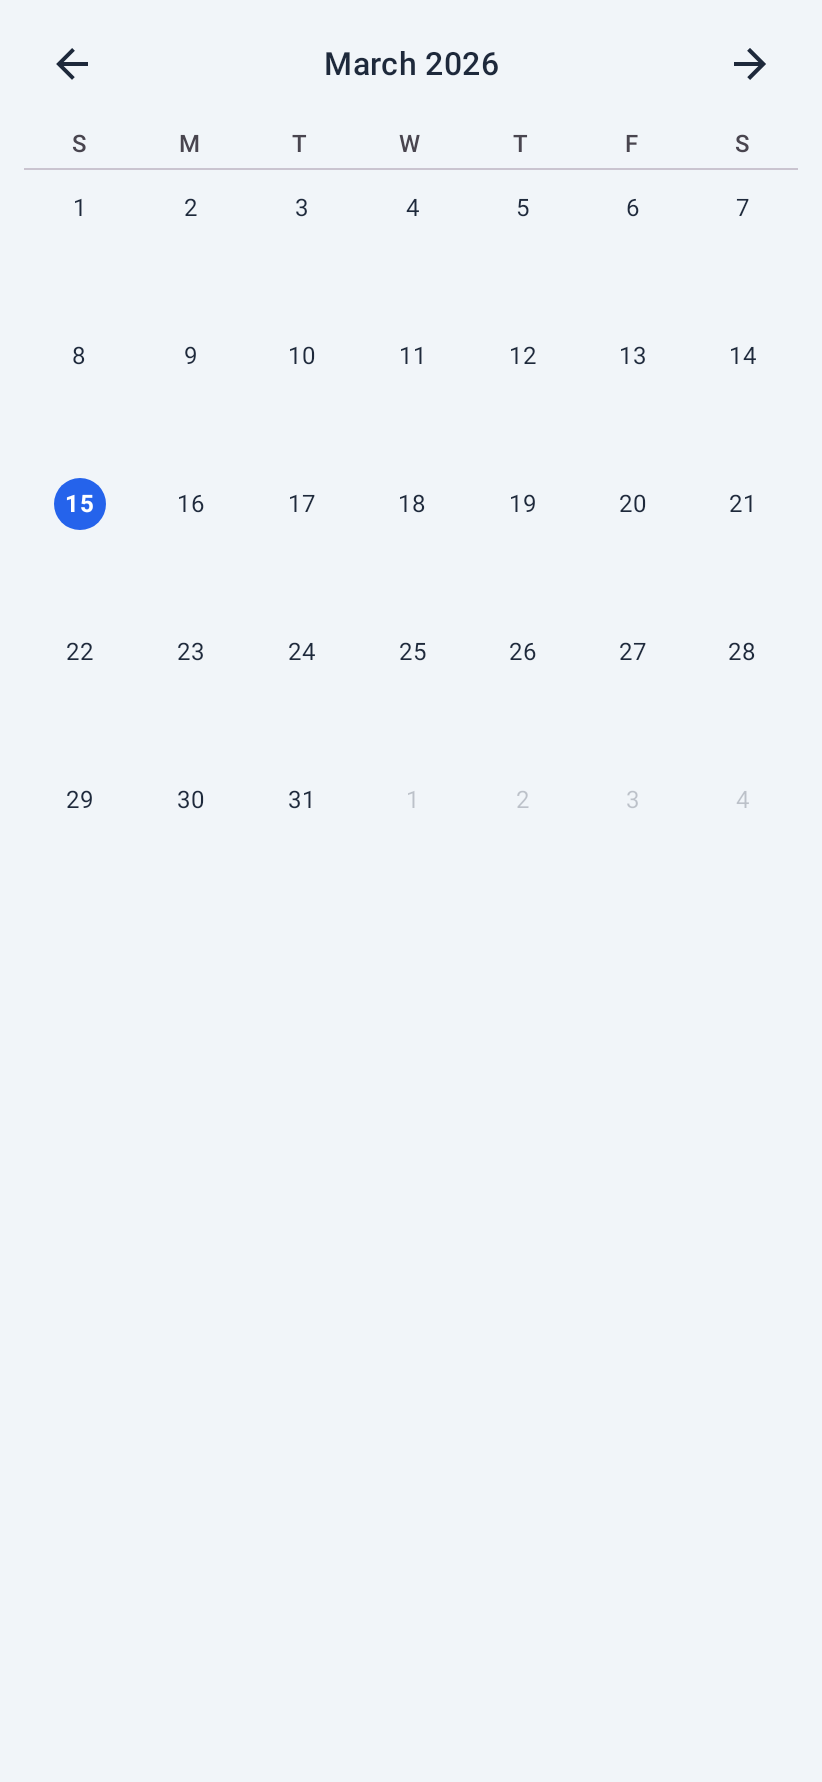
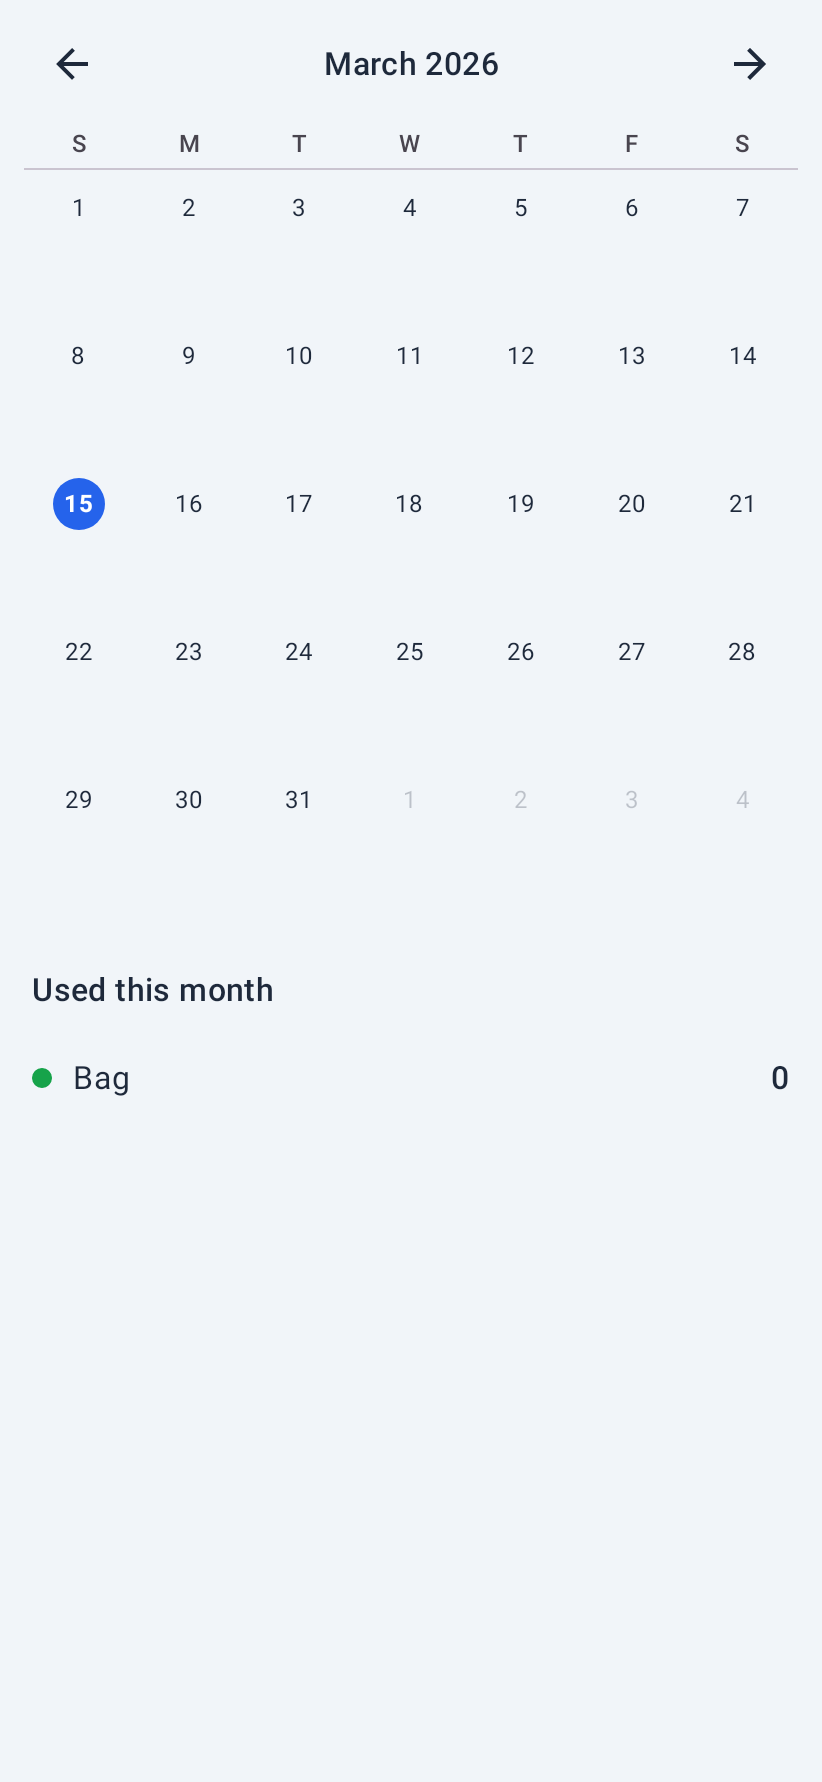
feat(calendar): monthly usage totals and swipe between months
The calendar only showed per-day pills, so answering "how many bags did I
go through this month" meant adding them up by hand. A "Used this month"
list under the grid now totals every active supply for the displayed month
(zeros included, so a supply you didn't use still shows up).

Changing months needed the small arrow buttons; the grid now takes a
horizontal swipe like Google Calendar, with a slide animation. The arrows
stay for TalkBack/VoiceOver users.

The lazy grid became plain rows so the tab can scroll to the new section.

diff --git a/composeApp/src/commonMain/kotlin/com/ostomate/app/ui/calendar/CalendarScreen.kt b/composeApp/src/commonMain/kotlin/com/ostomate/app/ui/calendar/CalendarScreen.kt
@@ -2,8 +2,15 @@
 
 package com.ostomate.app.ui.calendar
 
+import androidx.compose.animation.AnimatedContent
+import androidx.compose.animation.EnterTransition
+import androidx.compose.animation.ExitTransition
+import androidx.compose.animation.slideInHorizontally
+import androidx.compose.animation.slideOutHorizontally
+import androidx.compose.animation.togetherWith
 import androidx.compose.foundation.background
 import androidx.compose.foundation.clickable
+import androidx.compose.foundation.gestures.detectHorizontalDragGestures
 import androidx.compose.foundation.layout.Arrangement
 import androidx.compose.foundation.layout.Box
 import androidx.compose.foundation.layout.Column
@@ -16,9 +23,6 @@ import androidx.compose.foundation.layout.fillMaxSize
 import androidx.compose.foundation.layout.fillMaxWidth
 import androidx.compose.foundation.layout.padding
 import androidx.compose.foundation.layout.size
-import androidx.compose.foundation.lazy.grid.GridCells
-import androidx.compose.foundation.lazy.grid.LazyVerticalGrid
-import androidx.compose.foundation.lazy.grid.items
 import androidx.compose.foundation.rememberScrollState
 import androidx.compose.foundation.shape.CircleShape
 import androidx.compose.foundation.shape.RoundedCornerShape
@@ -54,6 +58,7 @@ import androidx.compose.runtime.setValue
 import androidx.compose.ui.Alignment
 import androidx.compose.ui.Modifier
 import androidx.compose.ui.draw.clip
+import androidx.compose.ui.input.pointer.pointerInput
 import androidx.compose.ui.platform.testTag
 import androidx.compose.ui.semantics.CustomAccessibilityAction
 import androidx.compose.ui.semantics.clearAndSetSemantics
@@ -77,6 +82,8 @@ import com.ostomate.app.resources.calendar_add_entry_question
 import com.ostomate.app.resources.calendar_add_entry_title
 import com.ostomate.app.resources.calendar_event_deleted
 import com.ostomate.app.resources.calendar_no_events_today
+import com.ostomate.app.resources.calendar_used_in_month
+import com.ostomate.app.resources.calendar_used_this_month
 import com.ostomate.app.resources.cd_delete_event
 import com.ostomate.app.resources.cd_next_month
 import com.ostomate.app.resources.cd_previous_month
@@ -164,6 +171,7 @@ fun CalendarScreen(viewModel: CalendarViewModel = koinViewModel()) {
                 Modifier
                     .fillMaxSize()
                     .padding(innerPadding)
+                    .verticalScroll(rememberScrollState())
                     .padding(horizontal = 12.dp),
         ) {
             // Month nav header
@@ -192,32 +200,124 @@ fun CalendarScreen(viewModel: CalendarViewModel = koinViewModel()) {
                 }
             }
 
-            // Weekday headers — Sunday-first (US convention)
-            Row(modifier = Modifier.fillMaxWidth()) {
-                WEEKDAY_LABELS.forEachIndexed { index, label ->
-                    Text(
-                        text = label,
-                        modifier = Modifier.weight(1f).semantics { contentDescription = WEEKDAY_FULL[index] },
-                        textAlign = TextAlign.Center,
-                        style = MaterialTheme.typography.labelMedium,
-                        color = MaterialTheme.colorScheme.onSurfaceVariant,
-                    )
+            Column(
+                modifier =
+                    Modifier.fillMaxWidth().pointerInput(Unit) {
+                        val threshold = 56.dp.toPx()
+                        var dragTotal = 0f
+                        detectHorizontalDragGestures(
+                            onDragStart = { dragTotal = 0f },
+                            onDragEnd = {
+                                when {
+                                    dragTotal <= -threshold -> viewModel.nextMonth()
+                                    dragTotal >= threshold -> viewModel.prevMonth()
+                                }
+                            },
+                        ) { _, dragAmount -> dragTotal += dragAmount }
+                    },
+            ) {
+                // Weekday headers — Sunday-first (US convention)
+                Row(modifier = Modifier.fillMaxWidth()) {
+                    WEEKDAY_LABELS.forEachIndexed { index, label ->
+                        Text(
+                            text = label,
+                            modifier = Modifier.weight(1f).semantics { contentDescription = WEEKDAY_FULL[index] },
+                            textAlign = TextAlign.Center,
+                            style = MaterialTheme.typography.labelMedium,
+                            color = MaterialTheme.colorScheme.onSurfaceVariant,
+                        )
+                    }
+                }
+
+                HorizontalDivider(modifier = Modifier.padding(vertical = 4.dp))
+
+                AnimatedContent(
+                    targetState = uiState.days,
+                    transitionSpec = {
+                        val from = initialState.firstOrNull()?.date
+                        val to = targetState.firstOrNull()?.date
+                        if (from == null || to == null) {
+                            EnterTransition.None togetherWith ExitTransition.None
+                        } else {
+                            val sign = if (to > from) 1 else -1
+                            slideInHorizontally { width -> sign * width } togetherWith
+                                slideOutHorizontally { width -> -sign * width }
+                        }
+                    },
+                    contentKey = { days -> days.firstOrNull()?.date },
+                    label = "calendarMonth",
+                ) { days ->
+                    // Plain rows, not a lazy grid: a lazy grid can't sit inside the scrolling column.
+                    Column {
+                        days.chunked(7).forEach { week ->
+                            Row(modifier = Modifier.fillMaxWidth()) {
+                                week.forEach { day ->
+                                    Box(modifier = Modifier.weight(1f)) {
+                                        DayCell(
+                                            day = day,
+                                            onClick = { if (day.isCurrentMonth) viewModel.selectDay(day.date) },
+                                        )
+                                    }
+                                }
+                            }
+                        }
+                    }
                 }
             }
 
-            HorizontalDivider(modifier = Modifier.padding(vertical = 4.dp))
+            MonthTotals(
+                title =
+                    if (uiState.isCurrentMonth) {
+                        stringResource(Res.string.calendar_used_this_month)
+                    } else {
+                        stringResource(Res.string.calendar_used_in_month, uiState.monthLabel)
+                    },
+                totals = uiState.monthTotals,
+            )
+        }
+    }
+}
 
-            LazyVerticalGrid(
-                columns = GridCells.Fixed(7),
-                modifier = Modifier.fillMaxWidth(),
-                userScrollEnabled = false,
+@Composable
+private fun MonthTotals(
+    title: String,
+    totals: List<SupplyPill>,
+) {
+    Column(modifier = Modifier.fillMaxWidth().padding(top = 16.dp, bottom = 24.dp)) {
+        Text(
+            text = title,
+            style = MaterialTheme.typography.titleMedium,
+            fontWeight = FontWeight.SemiBold,
+            modifier = Modifier.padding(horizontal = 4.dp, vertical = 8.dp).semantics { heading() },
+        )
+        totals.forEachIndexed { index, total ->
+            if (index > 0) HorizontalDivider()
+            Row(
+                modifier =
+                    Modifier
+                        .fillMaxWidth()
+                        .padding(horizontal = 4.dp, vertical = 12.dp)
+                        .testTag("monthTotal_${total.supplyId}")
+                        .semantics(mergeDescendants = true) {},
+                verticalAlignment = Alignment.CenterVertically,
             ) {
-                items(uiState.days, key = { it.date.toString() }) { day ->
-                    DayCell(
-                        day = day,
-                        onClick = { if (day.isCurrentMonth) viewModel.selectDay(day.date) },
-                    )
-                }
+                Spacer(
+                    Modifier
+                        .size(10.dp)
+                        .clip(CircleShape)
+                        .background(supplyColor(total.kind))
+                        .clearAndSetSemantics {},
+                )
+                Text(
+                    text = total.supplyName,
+                    style = MaterialTheme.typography.bodyLarge,
+                    modifier = Modifier.weight(1f).padding(start = 10.dp),
+                )
+                Text(
+                    text = total.count.toString(),
+                    style = MaterialTheme.typography.bodyLarge,
+                    fontWeight = FontWeight.SemiBold,
+                )
             }
         }
     }

diff --git a/composeApp/src/commonTest/kotlin/com/ostomate/app/ui/calendar/CalendarViewModelTest.kt b/composeApp/src/commonTest/kotlin/com/ostomate/app/ui/calendar/CalendarViewModelTest.kt
@@ -4,6 +4,7 @@ package com.ostomate.app.ui.calendar
 
 import com.ostomate.app.data.ChangeEventRepository
 import com.ostomate.app.data.SupplyRepository
+import com.ostomate.app.domain.SupplyKind
 import com.ostomate.app.ui.FakeChangeEventDao
 import com.ostomate.app.ui.FakeSupplyTypeDao
 import com.ostomate.app.ui.MainDispatcherTest
@@ -21,6 +22,7 @@ import kotlinx.datetime.toInstant
 import kotlinx.datetime.toLocalDateTime
 import kotlin.test.Test
 import kotlin.test.assertEquals
+import kotlin.test.assertFalse
 import kotlin.test.assertNull
 import kotlin.test.assertTrue
 import kotlin.time.Clock
@@ -156,5 +158,41 @@ class CalendarViewModelTest : MainDispatcherTest() {
 
             assertEquals(noonMillis(today), eventDao.events.value.single().timestampMillis)
             assertEquals(4, supplyDao.getById(bagId)?.onHand)
+        }
+
+    @Test
+    fun monthTotalsListEverySupplyWithItsCountForTheShownMonth() =
+        runTest {
+            val (bagId, flangeId, _) =
+                supplyDao.seed(
+                    testSupply(name = "Bag"),
+                    testSupply(name = "Flange", kind = SupplyKind.FLANGE, sortOrder = 1),
+                    testSupply(name = "Paste", kind = SupplyKind.CUSTOM, sortOrder = 2),
+                )
+            val firstOfMonth = LocalDate(today.year, today.monthNumber, 1)
+            eventRepository.logChangeAt(bagId, noonMillis(firstOfMonth))
+            eventRepository.logChangeAt(bagId, noonMillis(today))
+            eventRepository.logChangeAt(flangeId, noonMillis(today))
+            // Last month's change must not count toward this month.
+            eventRepository.logChangeAt(bagId, noonMillis(firstOfMonth.minus(1, DateTimeUnit.DAY)))
+
+            val vm = viewModel()
+            keepSubscribed(vm.uiState)
+            advanceUntilIdle()
+
+            val state = vm.uiState.value
+            assertTrue(state.isCurrentMonth)
+            assertEquals(
+                listOf("Bag" to 2, "Flange" to 1, "Paste" to 0),
+                state.monthTotals.map { it.supplyName to it.count },
+            )
+
+            vm.prevMonth()
+            advanceUntilIdle()
+            assertFalse(vm.uiState.value.isCurrentMonth)
+            assertEquals(
+                listOf("Bag" to 1, "Flange" to 0, "Paste" to 0),
+                vm.uiState.value.monthTotals.map { it.supplyName to it.count },
+            )
         }
 }

diff --git a/composeApp/src/commonMain/kotlin/com/ostomate/app/ui/calendar/CalendarViewModel.kt b/composeApp/src/commonMain/kotlin/com/ostomate/app/ui/calendar/CalendarViewModel.kt
@@ -50,6 +50,9 @@ private val MONTH_NAMES =
 
 data class CalendarUiState(
     val monthLabel: String = "",
+    val isCurrentMonth: Boolean = true,
+    /** Every active supply with its total for the displayed month, zeros included. */
+    val monthTotals: List<SupplyPill> = emptyList(),
     val days: List<CalendarDay> = emptyList(),
     val selectedDayEvents: List<ChangeEventWithSupply>? = null,
     val selectedDayLabel: String = "",
@@ -106,6 +109,14 @@ class CalendarViewModel(
                     CalendarDay(date = date, isCurrentMonth = isCurrentMonth, isToday = date == today, pills = pills)
                 }
 
+            val totalsBySupply = mutableMapOf<Long, Int>()
+            countsByDay.values.forEach { perSupply ->
+                perSupply.forEach { (supplyId, count) ->
+                    totalsBySupply[supplyId] = (totalsBySupply[supplyId] ?: 0) + count
+                }
+            }
+            val monthTotals = supplies.map { SupplyPill(it.id, it.name, it.kind, totalsBySupply[it.id] ?: 0) }
+
             val selectedDayEvents =
                 selectedDate?.let { sel ->
                     events.filter { row ->
@@ -123,6 +134,8 @@ class CalendarViewModel(
 
             CalendarUiState(
                 monthLabel = "${MONTH_NAMES[month.monthNumber - 1]} ${month.year}",
+                isCurrentMonth = month.year == today.year && month.monthNumber == today.monthNumber,
+                monthTotals = monthTotals,
                 days = days,
                 selectedDayEvents = selectedDayEvents,
                 selectedDayLabel = selectedDayLabel,
